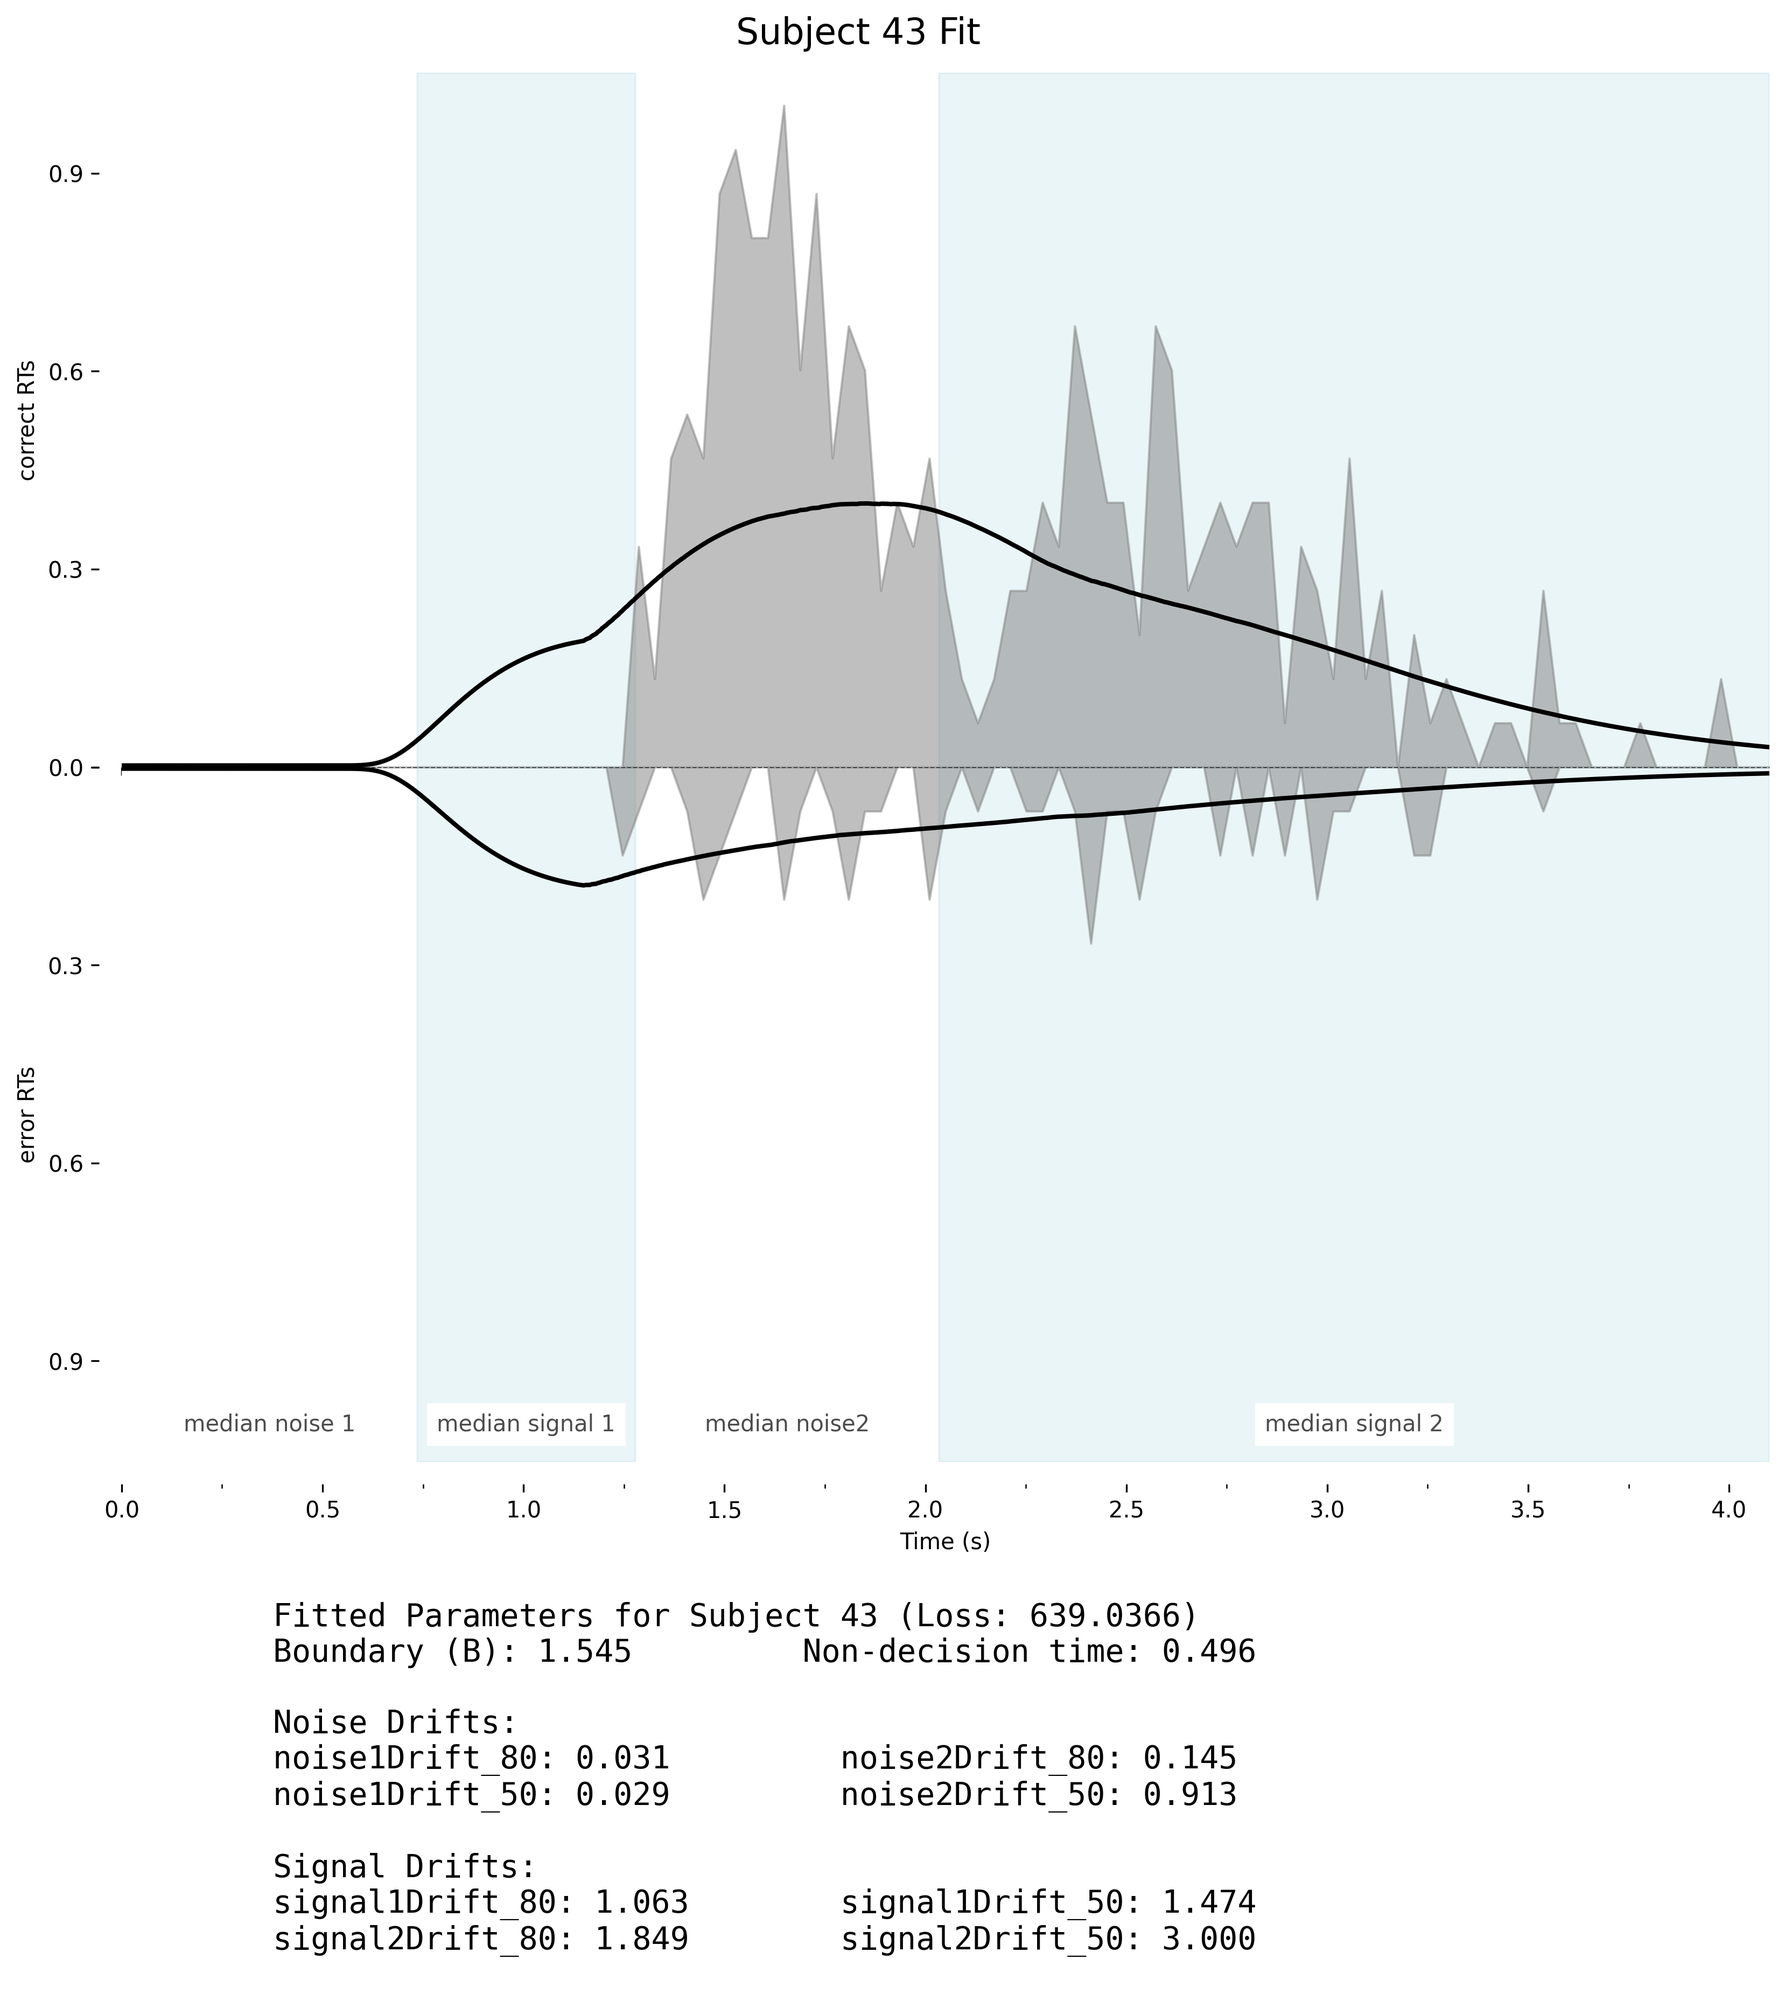
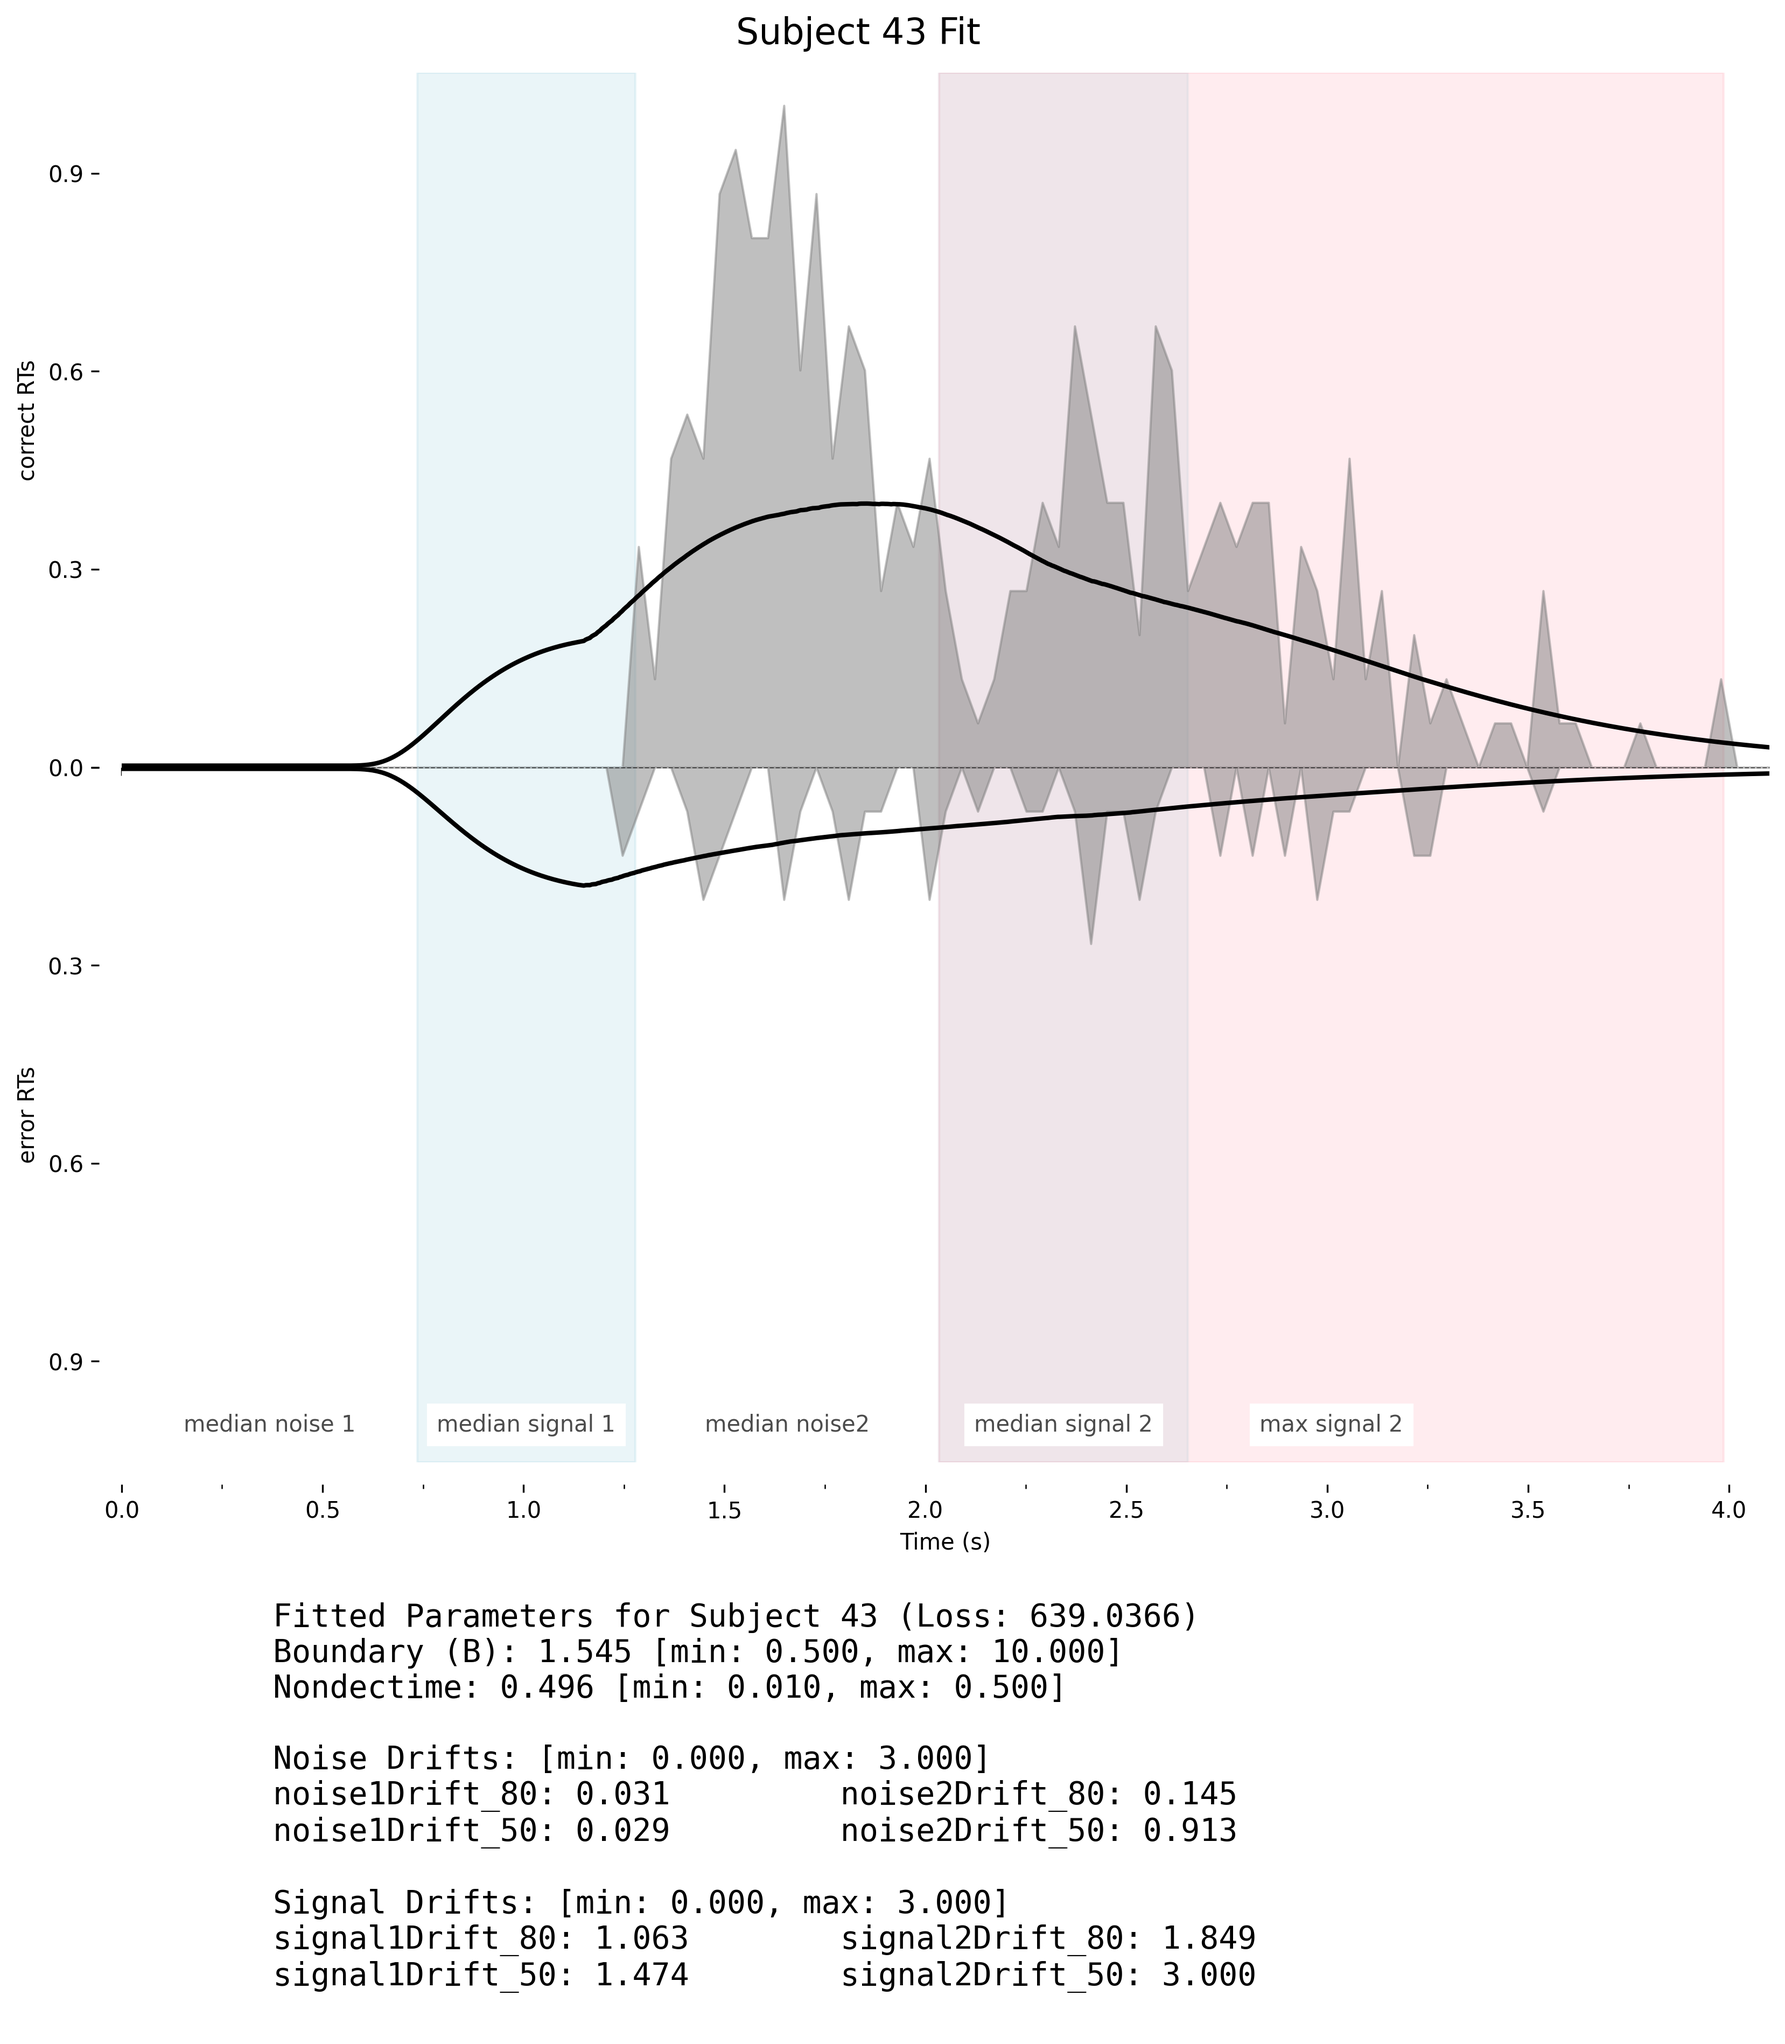
add noise info to diagnostic plots

diff --git a/analysis/pyDDM/cluster_fitting/10drift_6subjects_20250325/plot_fits.py b/analysis/pyDDM/cluster_fitting/10drift_6subjects_20250325/plot_fits.py
@@ -16,7 +16,7 @@ def plot_model_fit(results_dir):
     subjects = df['subID'].unique()
     
     # Create output directory
-    output_dir = os.path.join(results_dir, "/plots")
+    output_dir = os.path.join(results_dir, "../plots")
     os.makedirs(output_dir, exist_ok=True)
     # output_dir = os.getcwd()
     
@@ -104,6 +104,8 @@ def plot_model_fit(results_dir):
         signal1_onset = subject_df['signal1_onset'].median()
         noise2_onset = subject_df['noise2_onset'].median()
         signal2_onset = subject_df['signal2_onset'].median()
+        median_rt = subject_df.loc[subject_df['RT'] > subject_df['signal2_onset'], 'RT'].median()
+        max_rt = subject_df.loc[subject_df['RT'] > subject_df['signal2_onset'], 'RT'].max()
         
         # Create figure
         fig = plt.figure(figsize=(12, 10))
@@ -116,7 +118,9 @@ def plot_model_fit(results_dir):
                 xlim = ax.get_xlim()
                 # add boxes
                 ax.axvspan(signal1_onset, noise2_onset, alpha=0.25, color='lightblue', zorder=0)
-                ax.axvspan(signal2_onset, xlim[1], alpha=0.25, color='lightblue', zorder=0)
+                ax.axvspan(signal2_onset, median_rt, alpha=0.25, color='lightblue', zorder=0)
+                if max_rt > median_rt:
+                    ax.axvspan(signal2_onset, max_rt, alpha=0.25, color='lightpink', zorder=0)
                 # add labels
                 if second_ax:
                     label_y_pos = ylim[0] + (ylim[1] - ylim[0]) * 0.07
@@ -124,8 +128,11 @@ def plot_model_fit(results_dir):
                     ax.text((signal1_onset+noise2_onset)/2, label_y_pos, 'median signal 1', 
                     ha='center', va='top', backgroundcolor='white', alpha=0.7, zorder=5)
                     # label signal 2
-                    ax.text((signal2_onset+xlim[1])/2, label_y_pos, 'median signal 2', 
+                    ax.text((signal2_onset+median_rt)/2, label_y_pos, 'median signal 2', 
                     ha='center', va='top', backgroundcolor='white', alpha=0.7, zorder=5)
+                    if max_rt > median_rt:
+                        ax.text((signal2_onset+max_rt)/2, label_y_pos, 'max signal 2', 
+                        ha='center', va='top', backgroundcolor='white', alpha=0.7, zorder=5)
                     # label noise 1 
                     ax.text((signal1_onset+0)/2, label_y_pos, 'median noise 1', 
                     ha='center', va='top', backgroundcolor='white', alpha=0.7, zorder=5)
@@ -158,4 +165,4 @@ def plot_model_fit(results_dir):
         plt.close()
 
 
-plot_model_fit(os.getcwd())
+plot_model_fit('results/')
